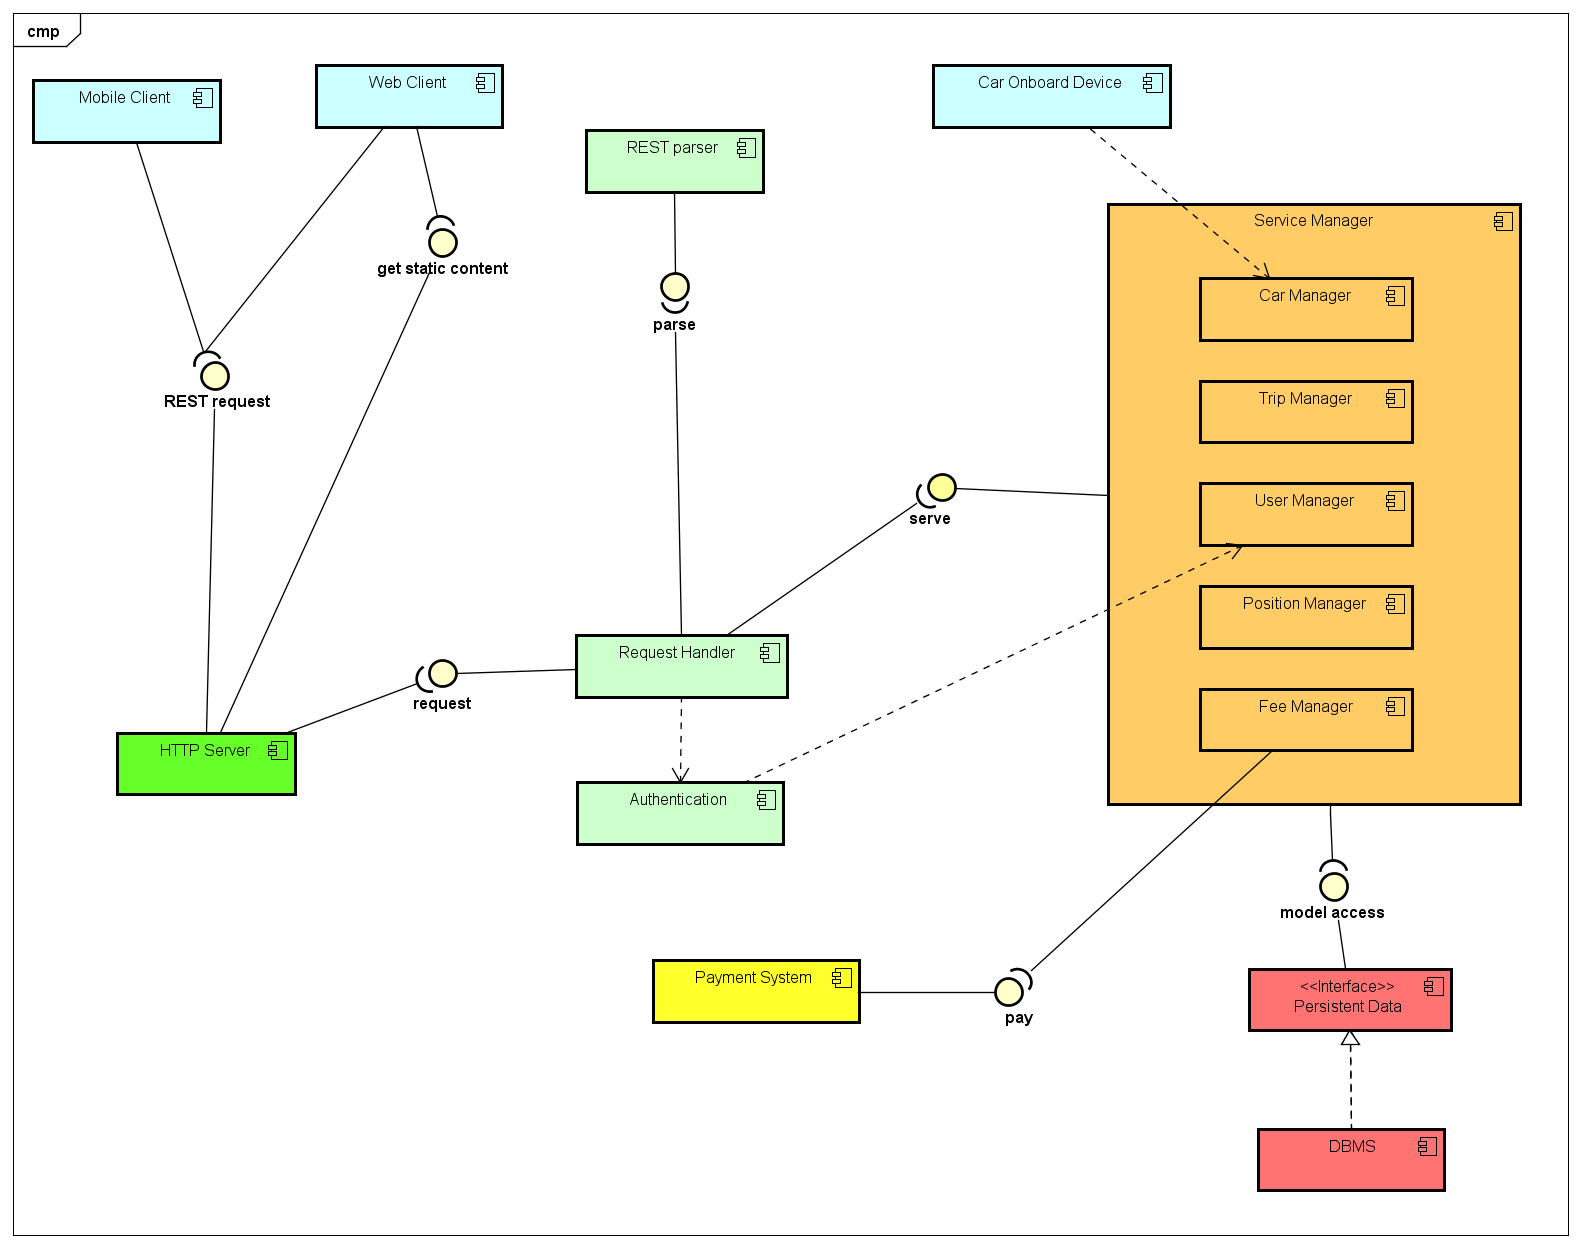
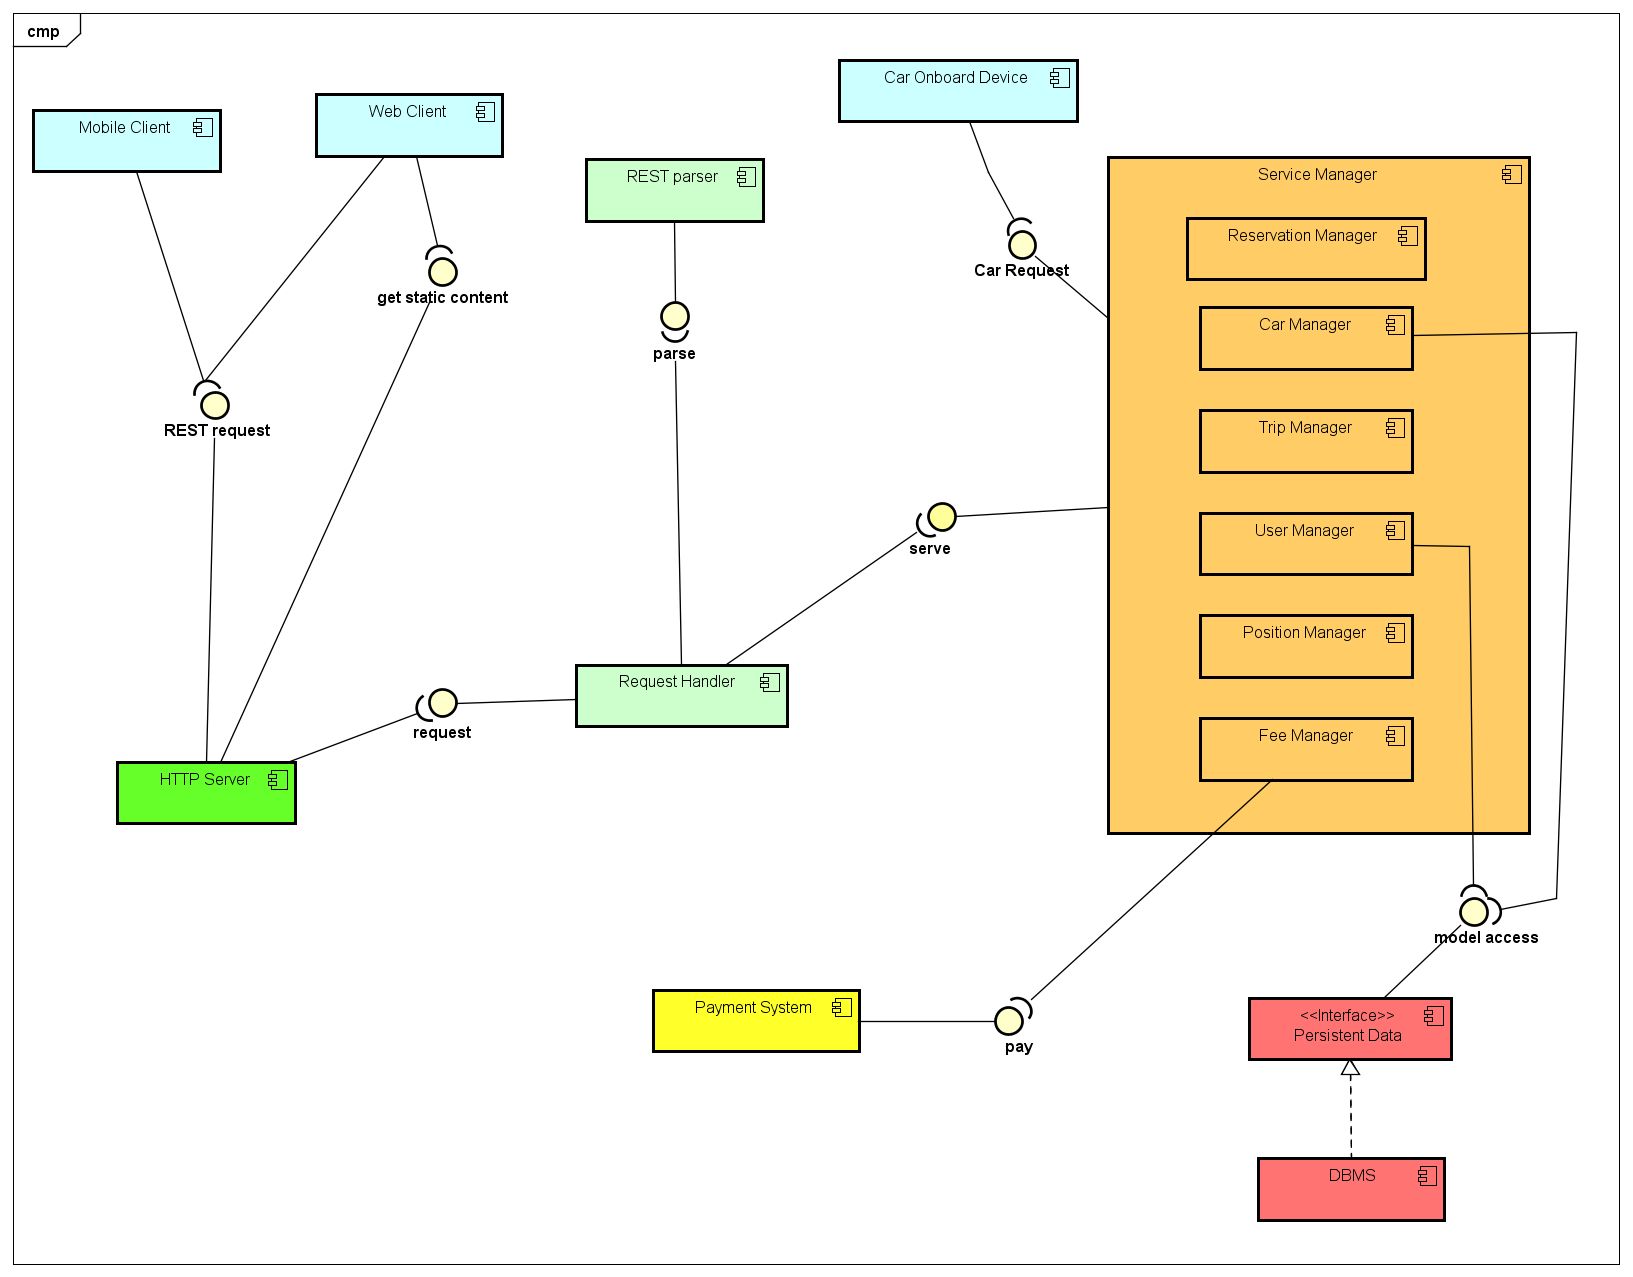
DD version 2

diff --git a/DD/Architectural_Design.tex b/DD/Architectural_Design.tex
@@ -38,7 +38,7 @@ In the Backend there all those component that aren't used directly by the user, 
 \item Data Manager: This component is the one that can access the database. It has the function of inserting, deleting and updating data in the database, when asked by other components. Furthermore, it provides to other components the data needed for their operations.
 \item User Manager: This component is responsible of managing all the operations concerning the accounts, such as registration, login and logout, modification of personal data.
 \item Position Manager: This component has the task of managing the position of the cars provided by the GPS and provide it to the other components that need it. 
-\item Travel Manager: This component is responsible of managing all the information about the travel, such as the current current position of the car, the safe areas and the special parking area. It has to communicate all this information to the Driver Client GUI.
+\item Car Manager: This component is responsible of managing all the information about the travel, such as the current current position of the car, the safe areas and the special parking area. It has to communicate all this information to the Driver Client GUI. It has also the task of handling the locking and unlocking of the car and of communicating the end of the travel.
 \item Fee Manager: This component is responsible for the calculation and the application of discounts on the fee of the travels has the task of charging the user. For these reason it is interfaced with an external payment system.
 \item Reservation Manager: This component is responsible of keeping track the reservations that are still active and of the available cars that can be picked up by the user.
 
@@ -46,16 +46,18 @@ In the Backend there all those component that aren't used directly by the user, 
 
 \begin{figure}[H]	
 	\centering
-	\includegraphics[width=\textwidth]{img/Component_diagram}
+	\includegraphics[width=\textwidth]{img/Component_Diagram}
 	\caption{Component Diagram}
 \end{figure}
 
 The communication between the clients (both mobile application and web site) are realized using a request-response methodology. The client asks for information or to make actions related to the server using \textbf{REST} requests and obtains a response from the server formatted as a \textbf{JSON} object, today the state of the art for web services communications. 
-All the REST requests received by the \textbf{HTTP Server} are forward to and, then, processed by the Request Handler component. The Request Handler component is in charge of validating the request integrity, parsing it using the \textbf{REST Parser}component and check the authentication for the requests type that need a valid session.
+All the REST requests received by the \textbf{HTTP Server} are forward to and, then, processed by the Request Handler component. The Request Handler component is in charge of validating the request integrity, parsing it using the \textbf{REST Parser} component and check the authentication for the requests type that need a valid session.
+
+The OnBoard device of the car does not interact with the HTTP Server, but he has its own interface between it and the Service Manager, that forwards its requests to the Car Manager.
 
 When a requests pass these checks is forwarded to the Service Manager where the application logic is applied.
 The \textbf{Service Manager}, depending on the types of request that are received,  processes a response using Car Manager, User Manager, Position Manager, Trip Manager or Fee Manager.
-Using those component the Service Manager can access the model, manage the request and craft a response.Every request can instantiate different component,
+Using those component the Service Manager can access the model, manage the request and craft a response.Every request can instantiate different component.
 
 The system status are represented through various \textbf{Java Beans} object that stay alive for all the time needed for the request processing.
 

diff --git a/DD/DD.tex b/DD/DD.tex
@@ -169,7 +169,7 @@ breaklinks=false,pdfborder={0 1 1},backref=false,colorlinks=false]
 	
 	\begin{versionhistory}
 		\vhEntry{1.0}{13/11/16}{Piazzolla  Millimaggi }{First document issue}
-		\vhEntry{ }{ }{ }{ }
+		\vhEntry{1.1}{10/01/16 }{Piazzolla Millimaggi }{Second document issue. Little changes in the component view }
 		\vhEntry{ }{ }{ }{ }
 \end{versionhistory}}
 
